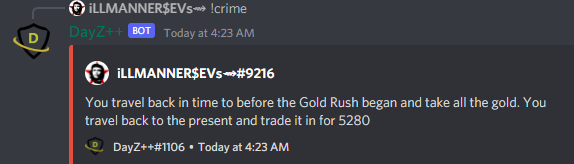
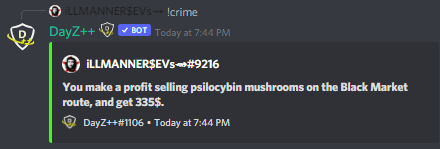
added economy pages
Complete economy section + images

Changed region(s): [[0.0, 0.1342, 0.975, 1.0], [0.0591, 0.0, 0.4727, 0.1342], [0.0295, 0.0805, 0.0591, 0.1074]]

diff --git a/docs/economy/paycheck.md b/docs/economy/paycheck.md
@@ -1,0 +1,34 @@
+# Setup Paychecks
+
+ This command allows `Killfeed Admin` to configure and setup **Paychecks** within their server's economy system for members belonging to roles. The paychecks may then be [collected](./collect.md) each day to receive any configured paychecks for each role they belong to that has been setup to receive one.
+
+> #### Command invoke: ```!paycheck``` Command Aliases: ```!pc```
+> + Subcommands: Refer below to **Usage**
+
+
+!!! note
+> + Multiple paychecks may be configured for whichever roles you want to be able to receive one. If a member belongs to 3 roles, and those roles are configured to receive a paycheck, then the member will receive all 3 paychecks upon collection.
+> + This command __must__ be executed witihin the dedicated channel for **Economy** commands or it will result in an error message; reference [Dashboard](../dashboard/dashboard.md) to configure the module dedicated channels.
+> 
+> ![screenshot](../img/bal_error.png)
+
+!!! usage
+```
+!(paycheck | pc) (create | add)  <@Role> <Amount> <On | Off (off = money gets added to cash)>
+!(paycheck | pc) (remove | delete) <Paycheck ID>
+!(paycheck | pc) list
+```
+
+!!! example
+
+``` {.sql title="Paycheck Command Examples" linenums="1"}
+!paycheck add @Survivor 1999 on
+!pc add @RoleOne 2500 on
+!paycheck create @RoleTwo 2500 off
+!pc create @RoleThree 2500 on
+!pc delete 12
+!pc remove 12
+!paycheck list
+!pc list
+```
+> ![screenshot](../img/paycheck.png)

diff --git a/docs/economy/withdrawl.md b/docs/economy/withdrawl.md
@@ -1,0 +1,24 @@
+# Withdraw Cash
+
+ This command allows all users to deposit any currency gained through gameplay or use of the bot's other economy commands directly into their bank accounts. If executed by itself it will automatically withdraw the entire amount of currency a member has in their bank. It can also be executed alongside of an amount argument, which will withdraw only the given amount from the bank account, and retain the remainder in savings.
+
+> #### Command invoke: ```!withdraw```     | Command  alias: ```!with```
+
+!!! note
+> + The bank account feature allows members to retain their currency safe and secure from being robbed by other members. 
+> + `Killfeed Admin` always retain ability to perform commands to adjust a member's balance amounts despite being banked or on-hand.
+> + This command __must__ be executed within the dedicated channel for **Economy** commands or it will result in an error message; reference [Dashboard](../dashboard/dashboard.md) to configure the module dedicated channels.
+> 
+> ![screenshot](../img/bal_error.png)
+
+!!! usage
+```
+!with [amount]
+```
+
+!!! example
+
+``` {.sql title="Withdraw Command Examples" linenums="1"}
+!withdraw
+!with <amount>
+```

diff --git a/docs/economy/slots.md b/docs/economy/slots.md
@@ -1,1 +1,23 @@
-with
+# Playing Slots
+
+This command allows users to gamble with their currency gained through in-game or economy command earnings.
+
+> #### Command invoke: ```!slots``` 
+
+!!! note
+> + You must have cash on-hand in order to gamble with to use the slots.
+> + Cooldown timers and payout rate percentage, and minimum/maximum amounts can be set by the `Killfeed Admin` from the [Dashboard](https://www.killfeed.xyz) panel under the **__Economy__** section.
+> + This command __must__ be executed witihin the dedicated channel for **Economy** commands or it will result in an error message; reference the [Dashboard](../dashboard/dashboard.md) section for further assistance on how to configure the module dedicated channels.
+
+> ![screenshot](../img/bal_error.png)
+
+!!! usage
+```
+!slots <bid amount>
+```
+
+!!! example
+
+``` {.sql title="Slots Command Examples" linenums="1"}
+!slots <amount>
+```

diff --git a/docs/economy/addbank.md b/docs/economy/addbank.md
@@ -1,13 +1,11 @@
 # Add Money to Bank
-
-## !addbank
-
  This command allows `Killfeed Admin` to easily distribute cash amounts of currency to a member's "bank" account and can be used to either pay individuals directly or to add currency to your own bank account and that of your fellow staff to distribute or utilize accordingly to help stimulate the economy however you decide is best.
 
 > #### Command invoke: ```!addbank```
 
 !!! note
 > + The command will not work if executed with an argument to ping a role, only individual members.
+> + `Killfeed Admin` always retain ability to perform commands to adjust a member's balance amounts despite being banked or on-hand.
 > + For distributing money across multiple members, consider [Issuing Paychecks](../economy/paychecks.md) instead.
 
 !!! usage

diff --git a/docs/economy/pay.md b/docs/economy/pay.md
@@ -1,0 +1,24 @@
+# Paying Others
+
+ This command allows all users to pay another member from the server with their cash-on-hand amount. 
+
+> #### Command invoke: ```!pay```   | Command  alias: ```!transfer | !giveMoney | !give-money``` 
+
+!!! note 
+> + This command __must__ be executed witihin the dedicated channel for **Economy** commands or it will result in an error message; reference [Dashboard](../dashboard/dashboard.md) to configure the module dedicated channels.
+> 
+> ![screenshot](../img/bal_error.png)
+
+!!! usage
+```
+!pay <amount> <@Member>
+```
+
+!!! example
+
+``` {.sql title="Pay Command Examples" linenums="1"}
+!pay <amount> <@Member>
+!transfer <amount> <@Member>
+!giveMoney <amount> <@Member>
+!give-money <amount> <@Member>
+```

diff --git a/docs/economy/addcash.md b/docs/economy/addcash.md
@@ -1,13 +1,11 @@
 # Add Money to Cash
-
-## !addcash
-
  This command allows `Killfeed Admin` to easily distribute cash amounts of currency to a member's "on hand" amount and can be used to either pay individuals directly or to add cash to your own account and that of your fellow staff to distribute or utilize accordingly.
 
 > #### Command invoke: ```!addcash```
 
 !!! note
 > + The command will not work if executed with an argument to ping a role, only individual members.
+> + `Killfeed Admin` always retain ability to perform commands to adjust a member's balance amounts despite being banked or on-hand.
 > + For distributing money across multiple members, consider [Issuing Paychecks](../economy/paychecks.md) instead.
 
 !!! usage

diff --git a/docs/economy/removebank.md b/docs/economy/removebank.md
@@ -1,0 +1,21 @@
+# Remove Money from Bank
+ This command allows `Killfeed Admin` to easily remove amounts of currency from a member's bank account.
+
+> #### Command invoke: ```!removebank``` Command Aliases: ```!removeBank | !remove-bank```
+
+!!! note
+> + The command will not work if executed with an argument to ping a role, only individual members.
+> + `Killfeed Admin` always retain ability to perform commands to adjust a member's balance amounts despite being banked or on-hand.
+
+!!! usage
+```
+!removebank <amount> <@Member>
+```
+
+!!! example
+
+``` {.sql title="Remove Bank Command Examples" linenums="1"}
+!removebank 10000 @nxck69_
+!remove-bank 20000 @nxck69_
+!removeBank 1500 @nxck69_
+```

diff --git a/docs/economy/collect.md b/docs/economy/collect.md
@@ -1,0 +1,18 @@
+# Collecting Paychecks
+ This command allows members to collect any daily paychecks that are distributed to roles that they belong to. `Killfeed Admin` will need to configure each role individually through the commands to setup any paycheck disbursements.
+
+> #### Command invoke: ```!collect```
+
+!!! note
+> + This command __must__ be executed witihin the dedicated channel for **Economy** commands or it will result in an error message; reference [Dashboard](../dashboard/dashboard.md) to configure the module dedicated channels.
+
+!!! usage
+```
+!collect
+```
+
+!!! example
+
+``` {.sql title="Collect Command Examples" linenums="1"}
+!collect
+```

diff --git a/docs/economy/removecash.md b/docs/economy/removecash.md
@@ -1,0 +1,21 @@
+# Remove Money from Cash
+ This command allows `Killfeed Admin` to easily remove amounts of currency from a member's cash on-hand amount.
+
+> #### Command invoke: ```!removecash```
+
+!!! note
+> + The command will not work if executed with an argument to ping a role, only individual members.
+> + `Killfeed Admin` always retain ability to perform commands to adjust a member's balance amounts despite being banked or on-hand.
+
+!!! usage
+```
+!removecash <amount> <@Member>
+```
+
+!!! example
+
+``` {.sql title="Remove Cash Command Examples" linenums="1"}
+!removecash 10000 @nxck69_
+!remove-cash 20000 @nxck69_
+!removeCash 1500 @nxck69_
+```

diff --git a/docs/economy/crime.md b/docs/economy/crime.md
@@ -1,0 +1,20 @@
+# Commit a Crime
+ This command allows members to take a chance at committing a crime to earn currency through the bot's economy commands. There is a chance rate that they fail, and lose currency through their failed attempt.
+
+> #### Command invoke: ```!crime```
+
+!!! note
+> + Cooldown timers and payout rate percentage, and minimum/maximum amounts can be set by the `Killfeed Admin` from the [Dashboard](https://www.killfeed.xyz) panel under the **__Economy__** section.
+
+!!! usage
+```
+!crime
+```
+
+!!! example
+
+``` {.sql title="Crime Command Examples" linenums="1"}
+!crime
+```
+
+> ![screenshot](../img/crime.png)

diff --git a/docs/economy/work.md b/docs/economy/work.md
@@ -1,0 +1,20 @@
+# Work Command
+ This command allows members to earn currency through the bot's economy commands by doing an honest day's worth of work.
+
+> #### Command invoke: ```!work```
+
+!!! note
+> + Cooldown timers and payout rate percentage, and minimum/maximum amounts can be set by the `Killfeed Admin` from the [Dashboard](https://www.killfeed.xyz) panel under the **__Economy__** section.
+
+!!! usage
+```
+!work
+```
+
+!!! example
+
+``` {.sql title="Work Command Examples" linenums="1"}
+!work
+```
+
+> ![screenshot](../img/work.png)
